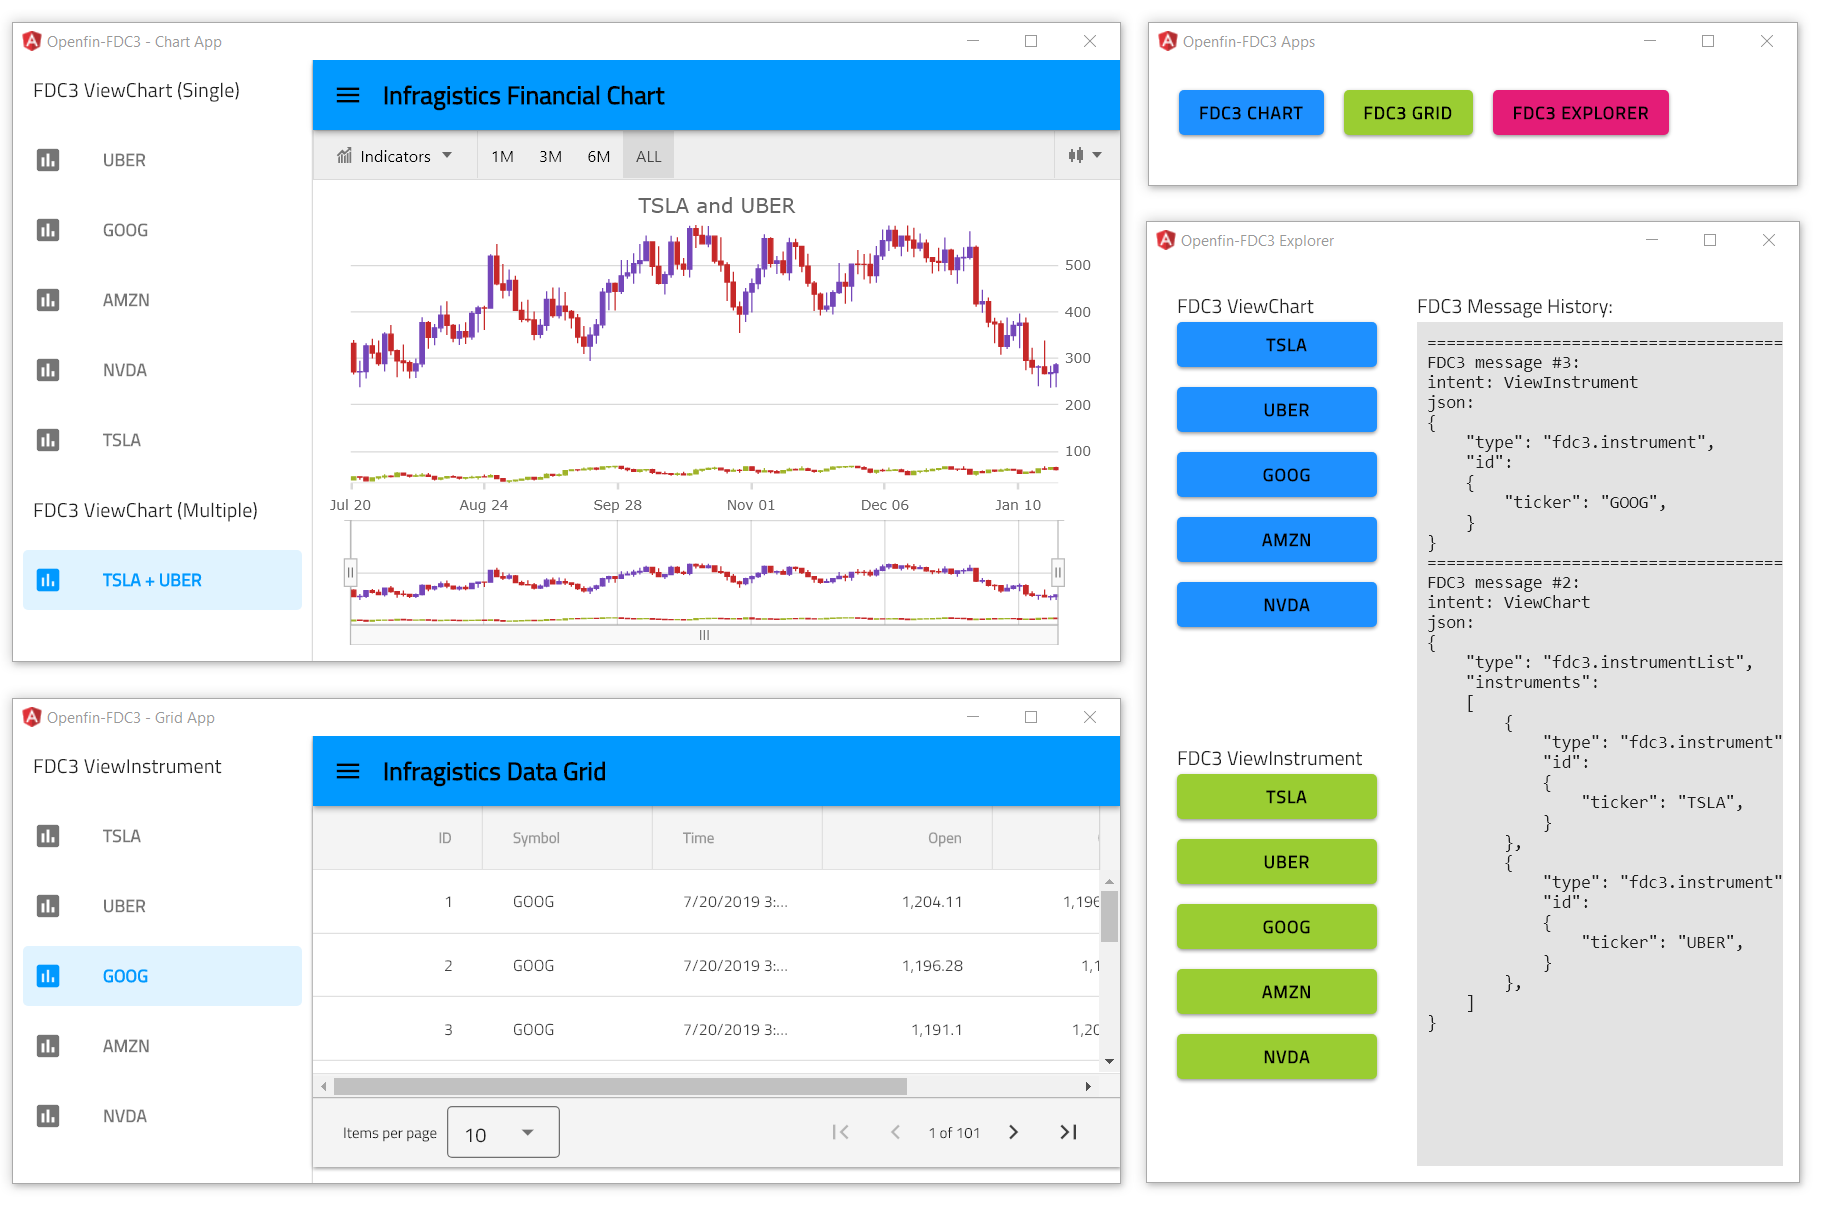
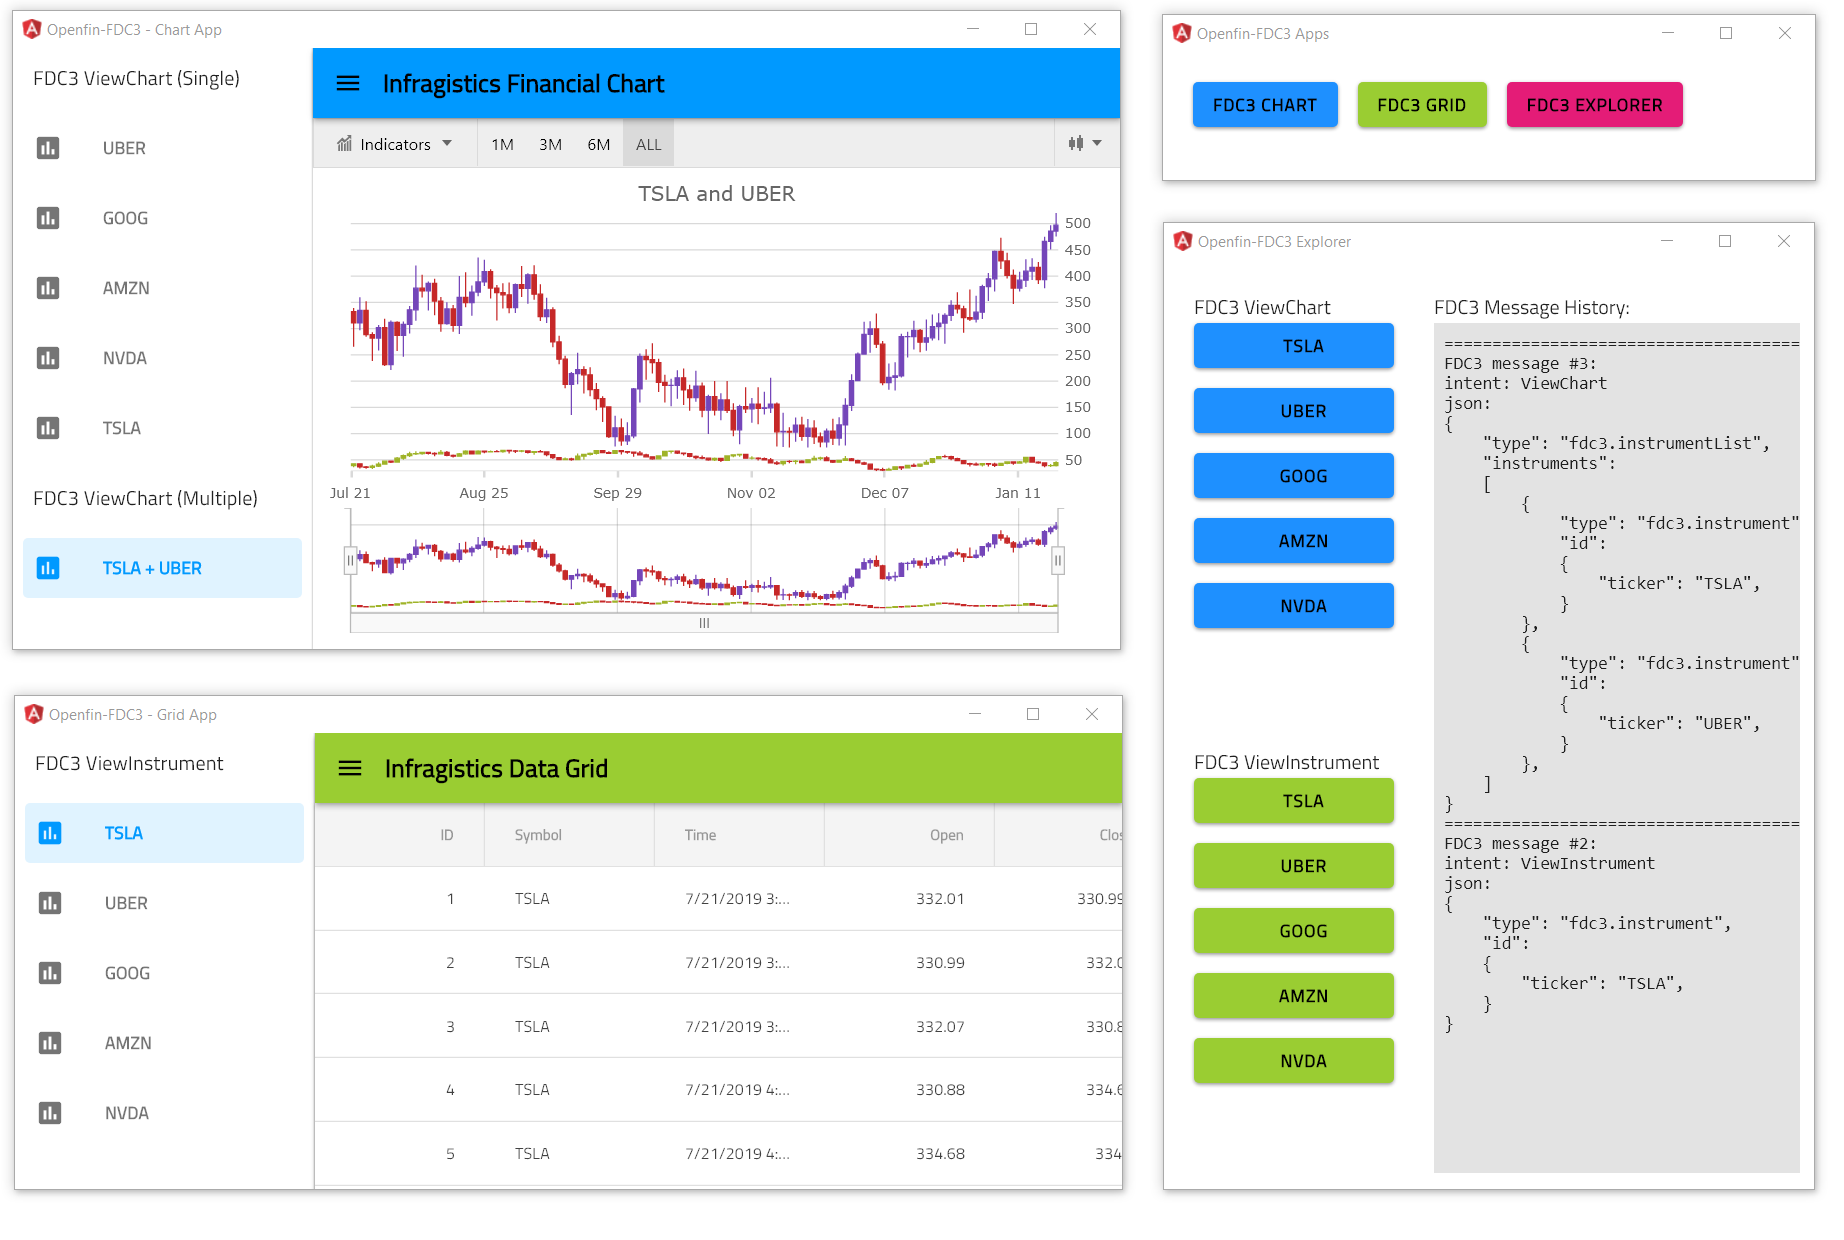
updated readme and styling

diff --git a/angular/openfin-stock-app/src/app/grid/grid.component.scss b/angular/openfin-stock-app/src/app/grid/grid.component.scss
@@ -1,10 +1,4 @@
 
-.chart {
-    width: 100%;
-    height: calc(100% - 70px);
-    // background: yellowgreen;
-}
-
 .main-toolbar {
     background: gray;
     width: 100%;
@@ -31,17 +25,6 @@
     width: 100%;
 }
 
-// .main {
-//     position: absolute;
-//     top: 0;
-//     right: 0;
-//     bottom: 0;
-//     left: 0;
-//     overflow: hidden;
-// }
-// main {
-//     padding: 1rem 1rem;
-// }
 
 main.mini-padding {
     // padding: 1rem calc(1rem + 60px);
@@ -63,9 +46,7 @@ main.mini-padding {
     color: #484848;
     margin: 4px 0;
 }
-// .igx-nav-drawer {
-//     flex-basis: 180px;
-// }
+
 .igx-nav-drawer__aside::-webkit-scrollbar {
     width: 3px;
     background: #e4e4e4;

diff --git a/angular/openfin-stock-app/src/index.ts b/angular/openfin-stock-app/src/index.ts
@@ -52,8 +52,8 @@ async function initOpenfin(): Promise<void> {
 function initWeb(): void {
     console.log("app running in browser");
 
-    platformBrowserDynamic().bootstrapModule(AppModule)
-    .catch(err => console.error(err));
-    // platformBrowserDynamic().bootstrapModule(ChartModule)
-    //     .catch(err => console.error(err));
+    // platformBrowserDynamic().bootstrapModule(AppModule)
+    // .catch(err => console.error(err));
+    platformBrowserDynamic().bootstrapModule(ChartModule)
+        .catch(err => console.error(err));
 }

diff --git a/angular/openfin-stock-app/src/app/app.component.ts b/angular/openfin-stock-app/src/app/app.component.ts
@@ -27,12 +27,12 @@ export class AppComponent implements AfterViewInit {
 
     public async OpenGrid(): Promise<void> {
         console.log("app OpenGrid");
-        Openfin.create("Grid Window", 900, 400, 0, 650);
+        Openfin.create("Grid Window", 900, 400, 0, 550);
     }
 
     public async OpenChart(): Promise<void> {
         console.log("app OpenChart");
-        Openfin.create("Chart Window", 900, 515, 0, 150);
+        Openfin.create("Chart Window", 900, 515, 0, 10);
     }
 
     public async OpenExplorer(): Promise<void> {

diff --git a/angular/openfin-stock-app/src/app/grid/grid.component.ts b/angular/openfin-stock-app/src/app/grid/grid.component.ts
@@ -142,6 +142,9 @@ export class GridComponent implements AfterViewInit {
         console.log("app loaded");
 
         this.drawer.width = "240px";
+        // console.log("ngAfterViewInit");
+        const element = document.getElementsByClassName("igx-navbar")[0]; // as HTMLElement;
+        element.setAttribute("style", "background: yellowgreen");
 
         if (openfinFdc3 === undefined) {
             console.log("openfinFdc3 is undefined"); return;

diff --git a/angular/openfin-stock-app/src/app/grid/grid.component.html b/angular/openfin-stock-app/src/app/grid/grid.component.html
@@ -18,10 +18,11 @@
 
     <main igxFlex >
       <igx-navbar title="Infragistics Data Grid" actionButtonIcon="menu"
-       [isActionButtonVisible]="true" (click)="drawerToggle()">
+       [isActionButtonVisible]="true" (click)="drawerToggle()"
+       style="background: red;">
     </igx-navbar>
 
-        <!-- igx-financial-chart -->
+        <!-- igx-grid -->
         <div class="chart">
             <igx-grid #grid
               [data]="dataSource"

diff --git a/angular/openfin-stock-app/README.md b/angular/openfin-stock-app/README.md
@@ -10,6 +10,8 @@ You can run this application locally in [OpenFin](https://developers.openfin.co/
 
 - [Components](#Components)
 - [Code Snippets](#Code-Snippets)
+    - [Creating FDC3 Data Adapter](#Creating-FDC3-Data-Adapter)
+    - [Sending FDC3 Messages](#Sending-FDC3-Messages)
 - [Installation](#Installation)
 - [Running](#Running)
 - [Testing](#Testing)
@@ -33,9 +35,9 @@ The following code snippet shows how to create FDC3 data adapter and subscribe t
 ```ts
 import { Fdc3DataAdapter } from "igniteui-angular-fdc3"
 import { Fdc3Message } from 'igniteui-angular-fdc3';
-
 // importing OpenFin FDC3 service
 import * as openfinFdc3 from "openfin-fdc3";
+// ...
 
 // creating FDC3 data adapter with reference to openfin
 this.FDC3adapter = new new Fdc3DataAdapter(openfinFdc3);
@@ -50,7 +52,6 @@ this.FDC3adapter.messageReceived = (msg: Fdc3Message) => {
 
 #### Sending FDC3 Messages
 
-
 This code snippet show how to send FDC3 **ViewChart** intent that can be consumed by [Financial Chart](https://infragistics.com/angularsite/components/financial-chart.html) component.
 
 ```ts
@@ -60,7 +61,7 @@ import { Fdc3Instrument } from 'igniteui-angular-fdc3';
 // creating context for FDC3 message
 let context = new Fdc3Instrument();
 context.ticker = "TSLA";
-// sending FDC3 ViewChart intent with TSLA instrument as context to 'IgStockAppUID' app
+// sending FDC3 ViewChart intent to 'IgStockAppUID' app
 this.FDC3adapter.sendInstrument("ViewChart", context, "IgStockAppUID");
 ```
 
@@ -73,7 +74,7 @@ import { Fdc3Instrument } from 'igniteui-angular-fdc3';
 // creating context for FDC3 message
 let context = new Fdc3Instrument();
 context.ticker = "TSLA";
-// sending FDC3 ViewInstrument intent with TSLA instrument as context to 'IgStockAppUID' app
+// sending FDC3 ViewInstrument intent to 'IgStockAppUID' app
 this.FDC3adapter.sendInstrument("ViewInstrument", context, "IgStockAppUID");
 ```
 
@@ -92,20 +93,28 @@ npm install
 
 ## Running
 
-Run this command to host this app locally in a browser:
+1. Run this command to host this app locally in a browser:
 
 ```
 npm run-script start
 ```
 
-This will open a website in an internet browser at [localhost:4500](http://localhost:4500/) address. While running in
-a browser, the app does not support any **OpenFin** actions (e.g. [FDC3 ViewChart](https://fdc3.finos.org/docs/1.0/intents-intro) intent) because they require connection to host it from **OpenFin** launcher. Therefore, you need to open a new terminal (**Terminal** - **New Terminal** menu item) and run this command:
+2. Wait until you see this message:
+
+**Angular Live Development Server is listening on localhost:4500**
+
+3. Open your browser at [localhost:4500](http://localhost:4500/) address.
+
+Note while running in a browser, the app does not support any **OpenFin** actions (e.g. [FDC3 ViewChart](https://fdc3.finos.org/docs/1.0/intents-intro) intent) because they require connection to host it from **OpenFin** launcher.
+
+4. Therefore, you need to open a new terminal (**Terminal** - **New Terminal** menu item)
+
+5. Run this command to start **OpenFin** launcher and host the app in an **OpenFin** window, where all functionalities are enabled, e.g. [FDC3 ViewChart](https://fdc3.finos.org/docs/1.0/intents-intro):
 
 ```
 npm run-script openfin
 ```
 
-This will start **OpenFin** launcher and host the app in an **OpenFin** window, where all functionalities are enabled, e.g. [FDC3 ViewChart](https://fdc3.finos.org/docs/1.0/intents-intro)
 
 
 ## Testing
